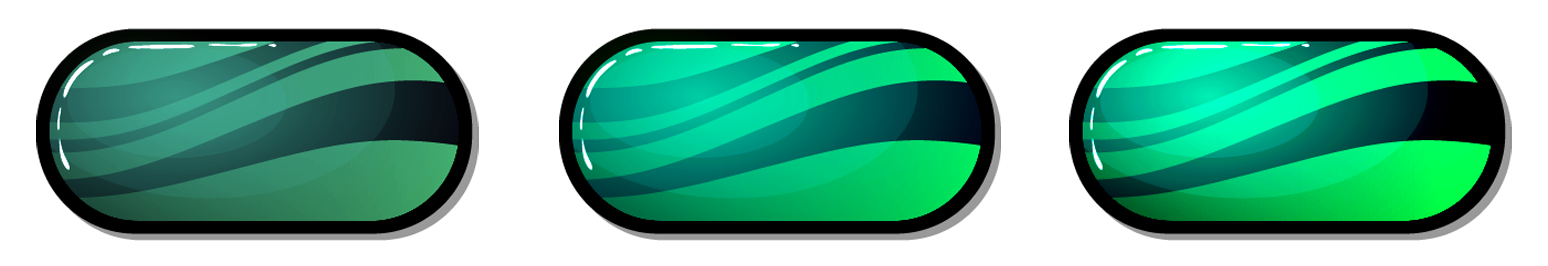
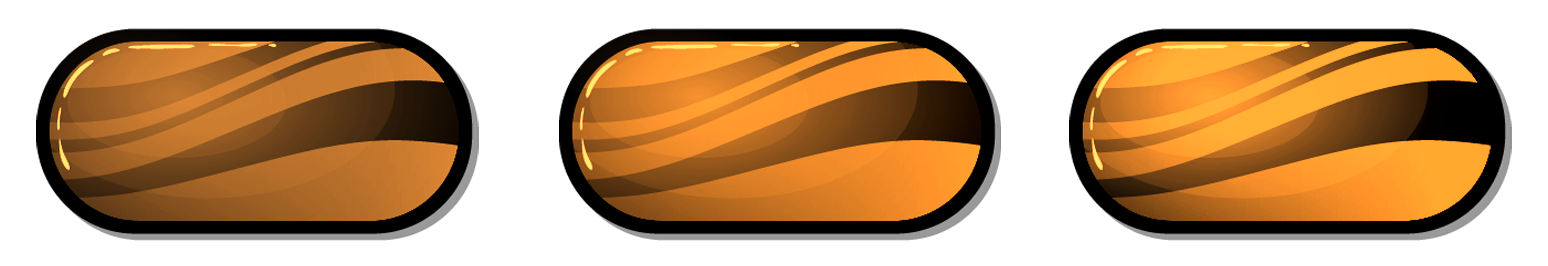
update menu + some code

diff --git a/GameTanks/base_level.cpp b/GameTanks/base_level.cpp
@@ -7,17 +7,30 @@ BaseLevel::BaseLevel() {
 
 sf::View& BaseLevel::Draw(sf::RenderWindow& window) {
 	window.draw(Sprite_background_);
+	for (auto const& object : Static_objects_)	object->Draw(window);
+	if (Bonus_object_ != nullptr)				Bonus_object_->Draw(window);
+	for (auto const& object : Enemy_objects_)	object->Draw(window);
+	for (auto const& object : Players_objects_)	object->Draw(window);
+	for (auto const& object : Shot_objects_)	object->Draw(window);
+	window.draw(Sprite_border_);
+	for (auto const& object : Ui_objects_)		object->Draw(window);
+	CameraControl();
+	return Player_camera_;
+}
+
+/*
+	window.draw(Sprite_background_);
 	int i;
 	for (i = 0; i < (int)Static_objects_.size(); i++)	Static_objects_[i]->Draw(window);
 	if (Bonus_object_ != nullptr)						Bonus_object_->Draw(window);
 	for (i = 0; i < (int)Enemy_objects_.size(); i++)	Enemy_objects_[i]->Draw(window);
 	for (i = 0; i < (int)Players_objects_.size(); i++)	Players_objects_[i]->Draw(window);
-	for (MovebleObject* item : Shot_objects_)			item->Draw(window);
+	for (auto const& item : Shot_objects_)				item->Draw(window);
 	window.draw(Sprite_border_);
 	for (i = 0; i < (int)Ui_objects_.size(); i++)		Ui_objects_[i]->Draw(window);
 	CameraControl();
 	return Player_camera_;
-}
+*/
 
 bool BaseLevel::AddUiObject(UiObject* Ui_object) {
 	if (Ui_object != nullptr) {

diff --git a/GameTanks/menu_level.cpp b/GameTanks/menu_level.cpp
@@ -9,12 +9,16 @@ MenuLevel::MenuLevel() {
 	ConnectToGameInput_ =	new Button(sf::Vector2f(a, a + a * m * 2), sf::Vector2f(0, 0));
 	ConnectToGame_ =		new Button(sf::Vector2f(a, a + a * m * 1), sf::Vector2f(0, 0));
 	Exit_ =					new Button(sf::Vector2f(a, a + a * m * 3), sf::Vector2f(0, 0));
+	Title_ =				new Title(sf::Vector2f(a * 12, a + a * m * 6), sf::Vector2f(0, 0));
 
-	sf::Vector2f scale = sf::Vector2f(0.8f, 0.6f);
-	NewGame_->SetScale(scale);
-	ConnectToGameInput_->SetScale(scale);
-	ConnectToGame_->SetScale(scale);
-	Exit_->SetScale(scale);
+	sf::Vector2f button_scale = sf::Vector2f(0.8f, 0.6f);
+	NewGame_->SetScale(button_scale);
+	ConnectToGameInput_->SetScale(button_scale);
+	ConnectToGame_->SetScale(button_scale);
+	Exit_->SetScale(button_scale);
+
+	sf::Vector2f title_scale = sf::Vector2f(0.5f, 0.5f);
+	Title_->SetScale(title_scale);
 
 	int text_size = 40;
 	NewGame_->SetCharacterSize(text_size);
@@ -40,6 +44,7 @@ MenuLevel::MenuLevel() {
 	this->AddUiObject(ConnectToGameInput_);
 	this->AddUiObject(ConnectToGame_);
 	this->AddUiObject(Exit_);
+	this->AddUiObject(Title_);
 }
 
 bool MenuLevel::UpdateState(float& game_timer) {

diff --git a/GameTanks/ready_ui_objects.cpp b/GameTanks/ready_ui_objects.cpp
@@ -3,7 +3,7 @@
 Button::Button(sf::Vector2f const& coordinate_centre, 
 	sf::Vector2f const& offset_sprite_coordinate) : UiObject(
 			coordinate_centre, offset_sprite_coordinate,
-			"Data/Ui/Button2.png", //texture
+			"Data/Ui/Button.png", //texture
 			3, 1){ //frame count
 	this->SetFocusable(false);
 	this->AddAudioAction("action1","Data/Audio/button_click/Button_click.ogg");
@@ -26,5 +26,25 @@ void Button::ActionClickDown() {
 
 void Button::ActionClickUp() {
 	this->StartPlayAnimation(1, 3, 1, 20);
+}
+
+Title::Title(sf::Vector2f const& coordinate_centre,
+	sf::Vector2f const& offset_sprite_coordinate) : UiObject(
+		coordinate_centre, offset_sprite_coordinate,
+		"Data/Ui/title.png", //texture
+		2, 1) { //frame count
+	this->SetFocusable(false);
+	this->AddAudioAction("action1", "Data/Audio/button_click/Button_click.ogg");
+	this->AddAudioAction("action2", "Data/Audio/button_click/Button_pressed.ogg");
+}
+
+void Title::ActionEnter() {
+	this->StartPlayAnimation(1, 1, 2, 20);
+	this->StartAudioAction("action1");
+}
+
+void Title::ActionLeave() {
+	this->StartPlayAnimation(1, 2, 1, 20);
+	this->StartAudioAction("action2");
 }
 

diff --git a/GameTanks/ready_objects.h b/GameTanks/ready_objects.h
@@ -120,6 +120,14 @@ public:
 	void ActionClickUp() override;
 };
 
+class Title : public UiObject {
+public:
+	Title(sf::Vector2f const& coordinate_centre,
+		sf::Vector2f const& offset_sprite_coordinate);
+
+	void ActionEnter() override;
+	void ActionLeave() override;
+};
 
 //game objects:
 class CommonGameObject abstract : public GameObject {

diff --git a/GameTanks/Levels.h b/GameTanks/Levels.h
@@ -132,7 +132,7 @@ public:
 
 class MenuLevel : public BaseLevel {
 private:
-	UiObject* NewGame_, * ConnectToGame_, * ConnectToGameInput_, * Exit_;
+	UiObject* NewGame_, * ConnectToGame_, * ConnectToGameInput_, * Exit_ , * Title_;
 
 public:
 	MenuLevel();

diff --git a/GameTanks/Engine.h b/GameTanks/Engine.h
@@ -21,7 +21,6 @@ private:
 	sf::Clock Game_clock_;
 	sf::RenderWindow Main_window_; // this object is responsible for all render
 	BaseLevel* Point_level_;
-	sf::Font Main_font_;
 
 	//for lan:
 	std::thread thread_lan_;
